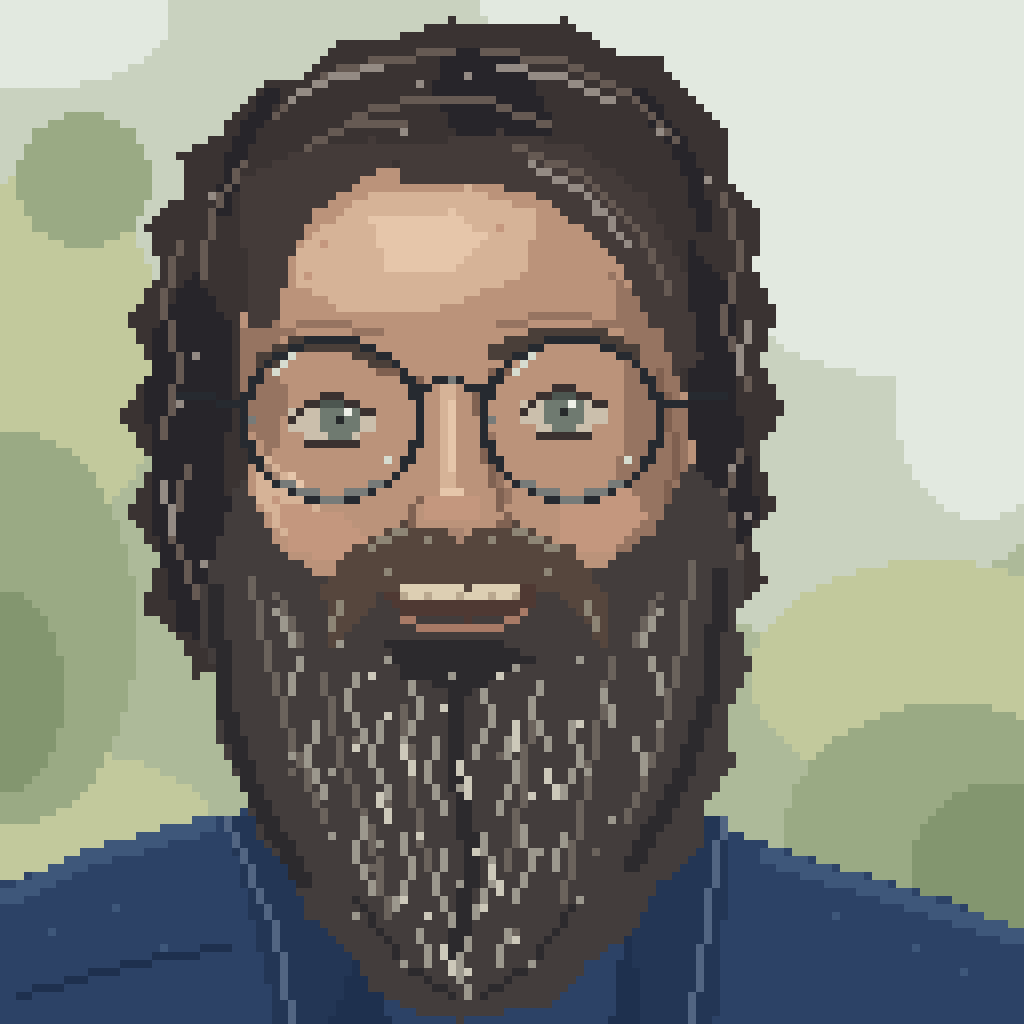
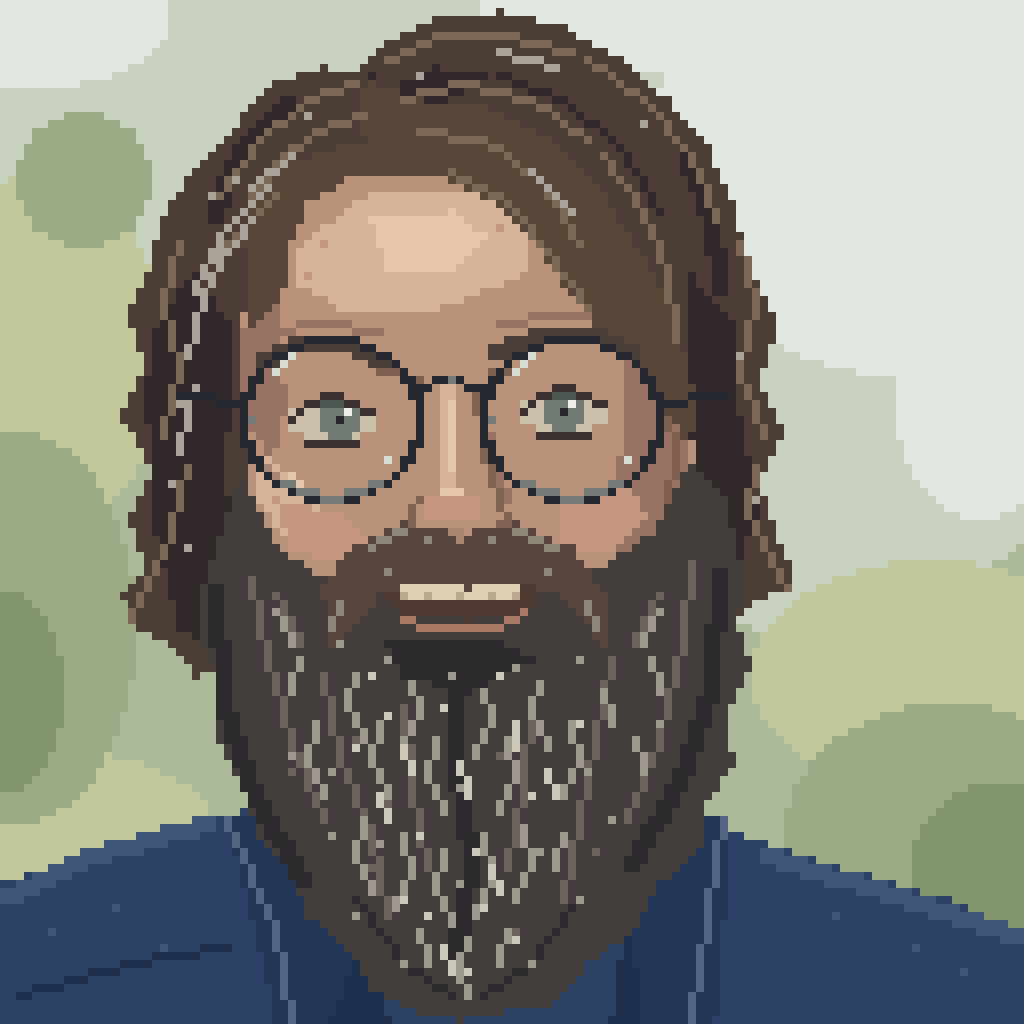
docs(examples): redraw the hair on the Stiwi portraits from the photo
Medium brown, side part on the viewer's left, one wave across to the right,
grey at the left temple, sides to the jaw. Hair regions and palette tokens
only; all four sizes re-rendered. cargo test --test stiwi_example passes.

Claude-Session: https://claude.ai/code/session_014TTLD9BXsReLisPj4eMGeJ

diff --git a/examples/stiwi/README.md b/examples/stiwi/README.md
@@ -57,6 +57,22 @@ order, so it failed with "Unknown token" in most runs. Regions now rasterize in
 dependency order (`structured::rasterize_regions`), shared by render, mask,
 diff and validate.
 
+## Hair revision
+
+The hair at all four sizes was redrawn by **Claude Fable 5.2 running in Claude
+Code (model as declared by the harness)** from the same photo reference, after
+the subject pointed out that it did not match. Only the hair regions and their
+palette tokens changed; the face, glasses, beard and background are untouched.
+
+- Medium brown in place of near-black.
+- A side part on the viewer's left, with one wave rising from it and crossing
+  the upper forehead to the viewer's right.
+- The left temple combed back, carrying most of the grey strands.
+- Both sides fall to the jaw and flick outward.
+
+At 128 and 256 the hair is one description at 128 scale, doubled for 256, which
+then adds its own loose `hair-strand` layer.
+
 ## A renderer bug found during the revisions
 
 A three-pixel forelock exposed that semantic `line` regions ignored their
